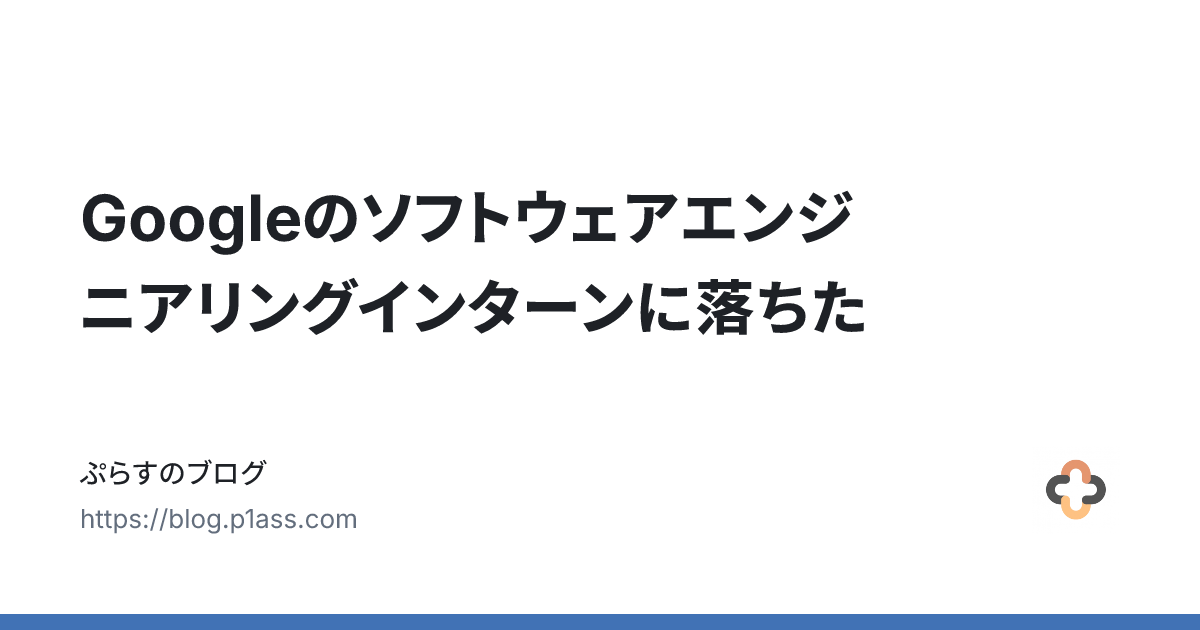
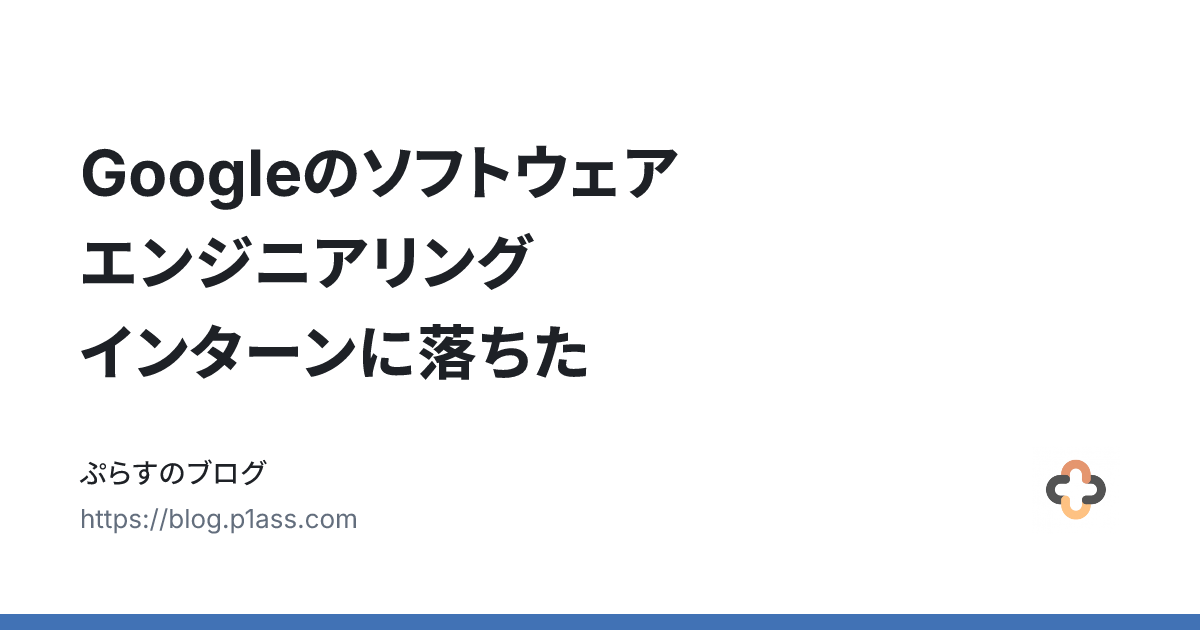
fix: OG 画像で "Next.js" や "Browser-Based" が割れないようにする
kuromoji は "Next.js" を Next と . と js に、"Browser-Based" を Browser と - と Based に割る。語の切れ目として扱っていたので、そこで改行されることがあった。空白を挟まずに続く欧文と記号はつなぎ直して、1 つの単位として扱う。

あわせて google-intern のタイトルに空白を 1 つ入れた。「ソフトウェアエンジニアリングインターン」は kuromoji でも 1 語で、19 文字あって 1 行に入らない。割らないと前後に極端に短い行ができ、割ると「エンジ|ニアリング」になる。空白を入れると語として分かれるので、どちらも起きなくなる。

Claude-Session: https://claude.ai/code/session_01Su1AH3rQswJnqutgkBXeVa

Changed region(s): [[0.0617, 0.2111, 0.74, 0.6032]]

diff --git a/scripts/generate-og-images.ts b/scripts/generate-og-images.ts
@@ -146,9 +146,14 @@ const forbiddenAtLineStart =
 // 行末に置けない文字。開き括弧。
 const forbiddenAtLineEnd = /[（［｛「『【〈《〔]$/
 
+// 空白を挟まずに続く欧文と記号。kuromoji は "Next.js" を Next と . と js に割るので、つなぎ直す。
+const asciiWord = /[0-9A-Za-z./_#@&%+:~-]/
+
 // タイトルを語の並びにする。
 //
 // 空白は直前の語にくっつける。単独の単位にすると、行頭に空白の来る組み方が生まれる。
+//
+// 空白で区切られていない欧文はひとつながりのままにする。"Next.js" や "Browser-Based" が割れると読めなくなる。
 async function splitIntoUnits(title: string): Promise<Unit[]> {
   // 文節の先頭にあたる位置。ここで折るときだけ penalty を 0 にする。
   const phraseHeads = new Set<number>()
@@ -163,7 +168,11 @@ async function splitIntoUnits(title: string): Promise<Unit[]> {
   for (const token of await tokenize(title)) {
     const text = token.surface_form
     const previous = units[units.length - 1]
-    if (/^\s+$/.test(text) && previous !== undefined) {
+    const continuesAscii =
+      previous !== undefined &&
+      asciiWord.test(previous.text.slice(-1)) &&
+      asciiWord.test(text.slice(0, 1))
+    if (previous !== undefined && (/^\s+$/.test(text) || continuesAscii)) {
       previous.text += text
       previous.width += textWidth(text)
     } else {
